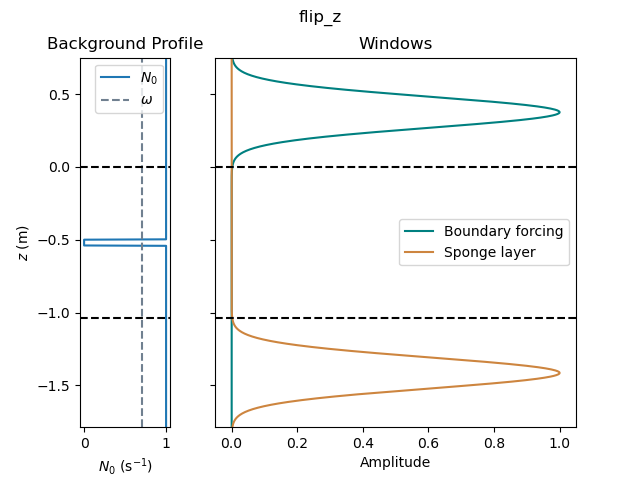
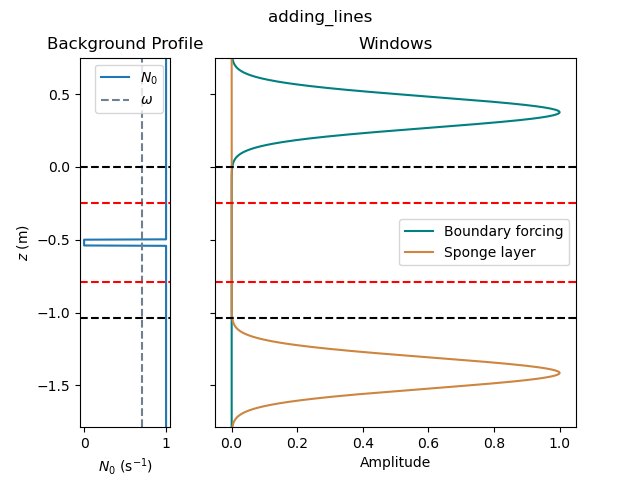
Added horizontal lines for measuring depths

diff --git a/helper_functions.py b/helper_functions.py
@@ -168,6 +168,17 @@ def add_dis_bounds(ax, z0_dis=None, zf_dis=None):
         ax.axhline(y=z0_dis, color=line_color, linestyle='--')
         ax.axhline(y=zf_dis, color=line_color, linestyle='--')
 
+def add_measure_lines(ax, z_I=None, z_T=None):
+    """
+    ax          axis for plot
+    z_I         depth at which to measure Incident wave
+    z_T         depth at which to measure Transmitted wave
+    """
+    line_color = my_clrs['w']
+    if z_I != None and z_T != None:
+        ax.axhline(y=z_I, color=line_color, linestyle='--')
+        ax.axhline(y=z_T, color=line_color, linestyle='--')
+
 # Plot background profile
 def plot_BP(ax, BP, z, omega=None):
     """
@@ -185,7 +196,7 @@ def plot_BP(ax, BP, z, omega=None):
         ax.axvline(x=omega, color=my_clrs['omega'], linestyle='--', label=r'$\omega$')
         ax.legend()
 
-def plot_v_profiles(BP_array, bf_array, sp_array, z, omega=None, z0_dis=None, zf_dis=None, title_str='Forced 1D Wave', filename='f_1D_windows.png'):
+def plot_v_profiles(BP_array, bf_array, sp_array, z, omega=None, z0_dis=None, zf_dis=None, z_I=None, z_T=None, title_str='Forced 1D Wave', filename='f_1D_windows.png'):
     """
     BP_array    array of background profile in N_0
     bf_array    array of boundary forcing window
@@ -204,11 +215,13 @@ def plot_v_profiles(BP_array, bf_array, sp_array, z, omega=None, z0_dis=None, zf
     #
     plot_BP(axes[0], BP_array, z, omega)
     add_dis_bounds(axes[0], z0_dis, zf_dis)
+    add_measure_lines(axes[0], z_I, z_T)
     #
     axes[1].plot(bf_array, z, color=my_clrs['F_bf'], label='Boundary forcing')
     axes[1].plot(sp_array, z, color=my_clrs['F_sp'], label='Sponge layer')
     # axes[1].plot(make_DD_mask(z, z0_dis, zf_dis), z, color=my_clrs['black'], label='Display Domain Mask')
     add_dis_bounds(axes[1], z0_dis, zf_dis)
+    add_measure_lines(axes[1], z_I, z_T)
     axes[1].set_xlabel('Amplitude')
     #axes[1].set_ylabel(r'$z$')
     axes[1].set_title(r'Windows')

diff --git a/switchboard.py b/switchboard.py
@@ -18,15 +18,12 @@ mL      = 1                     # [] vertical wave number times step length
 theta   = True                  # [] angle between wave's propagation and horizontal (or vertical?)
 
 # Run parameters
+nz              = 1024          # [] number of grid points in the z direction
 stop_n_periods  = 28            # [] oscillation periods
 extend_to_pwr_2 = True          # [] Extend simulation time so nt is a power of 2
 
 # Displayed domain parameters
-nz     = 1024                   # [] number of grid points in the z direction
 z0_dis = 0.0                    # [m] the top of the displayed z domain
-# Lz_dis = 1.0                    # [m] the length of the z domain between forcing and sponge
-# #
-# zf_dis = z0_dis - Lz_dis        # [m] The bottom of the displayed domain
 
 # Problem parameters
 A       = 2.0e-4                # []            Amplitude of boundary forcing

diff --git a/main.py b/main.py
@@ -121,9 +121,9 @@ problem.substitutions['S_term_psi'] = "win_sp * nabla2dt_psi / tau_sp"
 ###############################################################################
 # Plotting windows
 if sbp.plot_windows:
-    hf.plot_v_profiles(BP_array, sbp.win_bf_array, sbp.win_sp_array, z, omega, sbp.z0_dis, sbp.zf_dis, title_str=run_name)
+    hf.plot_v_profiles(BP_array, sbp.win_bf_array, sbp.win_sp_array, z, omega, sbp.z0_dis, sbp.zf_dis, sbp.z_I, sbp.z_T, title_str=run_name)
 
-# raise SystemExit(0)
+raise SystemExit(0)
 
 ###############################################################################
 # Define equations
